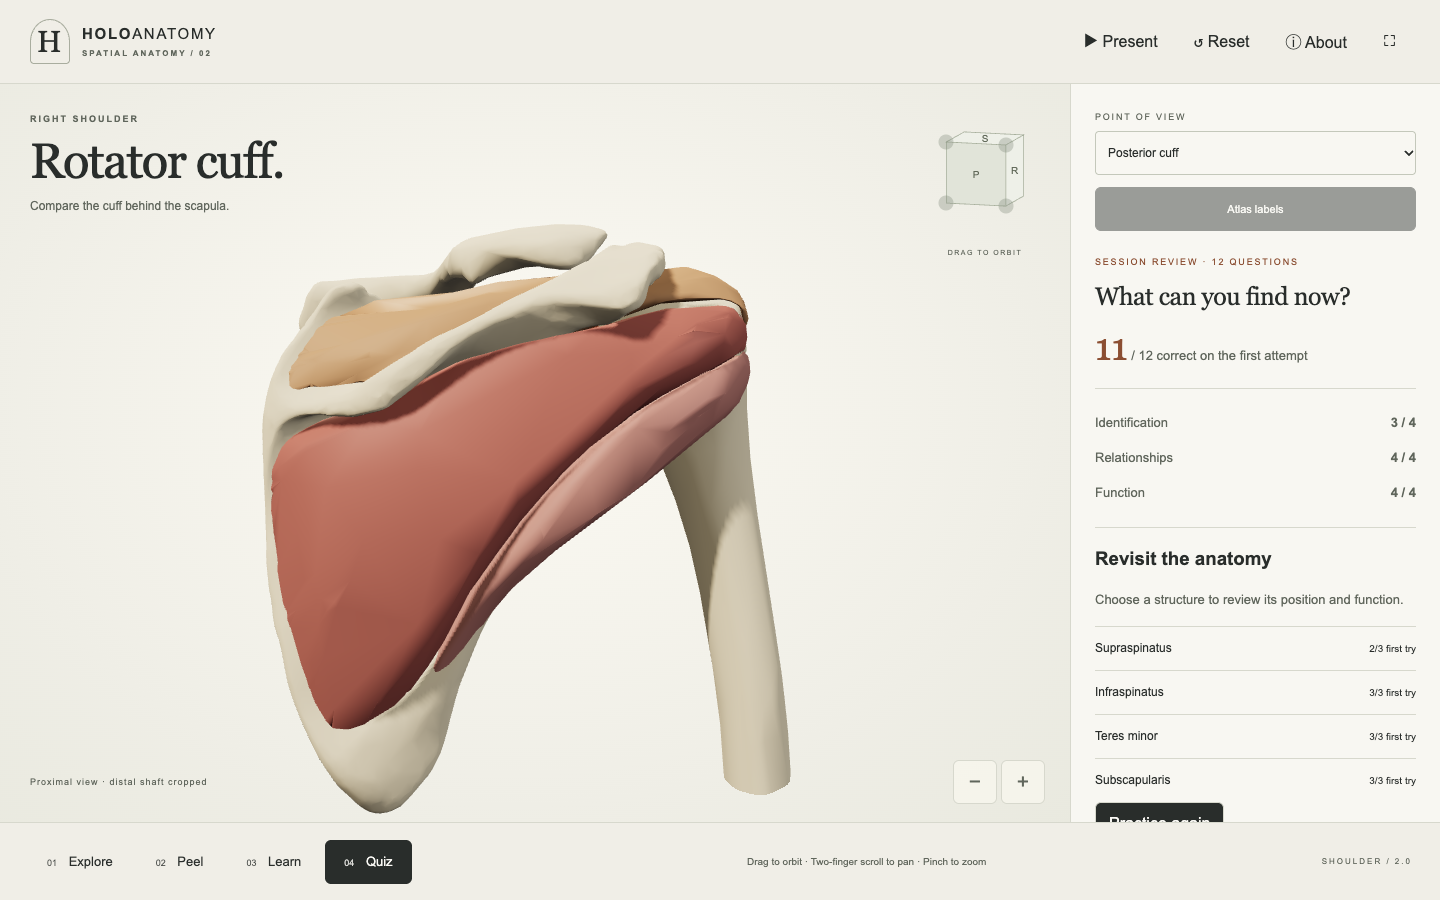
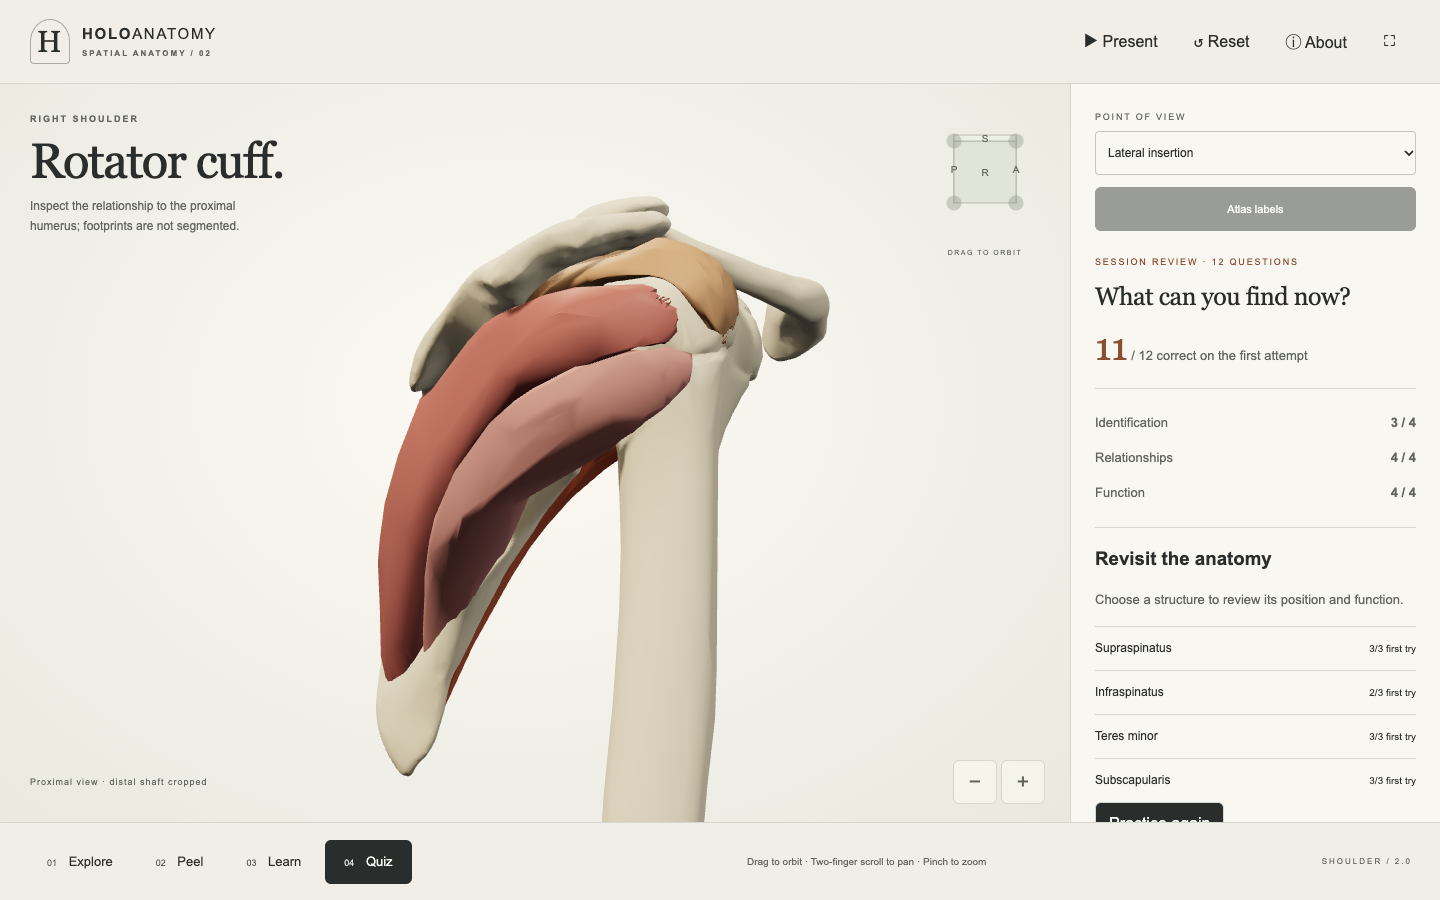
Remove predictable quiz cues and prepare educator review

diff --git a/arjan-portfolio/public/holoanatomy/shoulder/app.js b/arjan-portfolio/public/holoanatomy/shoulder/app.js
@@ -362,7 +362,7 @@ function renderPanel() {
         )}</div><h3>Revisit the anatomy</h3><p>Choose a structure to review its position and function.</p><ul class="muscle-list">${SITS.map((id) => `<li><button data-review="${id}">${name(id)}<small>${state.quiz.history.filter((r) => r.id === id && r.firstAttempt).length}/3 first try</small></button></li>`).join("")}</ul><button class="primary" data-action="quiz-restart">Practice again</button><p class="integrity">A practice-session result, not a validated measure of clinical competence. Results stay in this tab and reset when you reload.</p>`;
     } else {
       const q = question(state);
-      html = `<p class="kicker">ACTIVE RECALL · ${q.level} · ${state.quiz.index + 1} / ${QUIZ_LENGTH}</p><h2>${q.prompt}</h2><p>Select the structure on the specimen. Orbit to inspect it from another angle.</p><div class="steps"><span style="width:${(state.quiz.index / QUIZ_LENGTH) * 100}%"></span></div><p><span class="quiz-score">${state.quiz.score}</span> <small>first-attempt points</small></p><button class="primary" data-action="quiz-next" ${!state.quiz.answered ? "disabled" : ""}>${state.quiz.index === QUIZ_LENGTH - 1 ? "Review session →" : "Next question →"}</button><details><summary>Keyboard answer controls</summary><p>Choose the structure you would select in the model.</p>${SITS.map((id) => `<button data-select="${id}">${name(id)}</button>`).join("")}</details><p class="integrity">Names → spatial relationships → function. Retries support practice without adding points.</p>`;
+      html = `<p class="kicker">ACTIVE RECALL · ${q.level} · ${state.quiz.index + 1} / ${QUIZ_LENGTH}</p><h2>${q.prompt}</h2><p>Select the structure on the specimen. Orbit to inspect it from another angle.</p><div class="steps"><span style="width:${(state.quiz.index / QUIZ_LENGTH) * 100}%"></span></div><p><span class="quiz-score">${state.quiz.score}</span> <small>first-attempt points</small></p><button class="primary" data-action="quiz-next" ${!state.quiz.answered ? "disabled" : ""}>${state.quiz.index === QUIZ_LENGTH - 1 ? "Review session →" : "Next question →"}</button><details><summary>Keyboard answer controls</summary><p>Choose the structure you would select in the model.</p>${SITS.map((id) => `<button data-select="${id}">${name(id)}</button>`).join("")}</details><p class="integrity">Names → spatial relationships → function. Later rounds start from the same lateral view: rotate to find the answer. Retries support practice without adding points.</p>`;
     }
   }
   $("context").innerHTML = html;

diff --git a/arjan-portfolio/public/holoanatomy/shoulder/model.js b/arjan-portfolio/public/holoanatomy/shoulder/model.js
@@ -342,6 +342,16 @@ export const SOURCES = [
   },
 ];
 export function createState() {
+  const order = [];
+  for (let round = 0; round < 3; round++) {
+    const remaining = [...SITS];
+    while (remaining.length) {
+      const candidates = remaining.filter((id) => id !== order.at(-1));
+      const id = candidates[Math.floor(Math.random() * candidates.length)];
+      order.push(id);
+      remaining.splice(remaining.indexOf(id), 1);
+    }
+  }
   return {
     mode: "explore",
     presenting: false,
@@ -355,6 +365,7 @@ export function createState() {
     undo: [],
     lesson: 0,
     quiz: {
+      order,
       index: 0,
       score: 0,
       answered: false,
@@ -415,8 +426,7 @@ export function reassemble(state) {
 }
 export function question(state) {
   if (quizComplete(state)) return null;
-  const order = ["FJ1506", "FJ1504", "FJ1500", "FJ1508"];
-  const id = order[state.quiz.index % 4],
+  const id = state.quiz.order[state.quiz.index],
     level = Math.floor(state.quiz.index / 4);
   const relation = {
     FJ1506: "Select the cuff muscle above the scapular spine.",
@@ -441,7 +451,7 @@ export function question(state) {
         : level
           ? relation[id]
           : `Identify ${CURRICULUM[id].name.toLowerCase()}.`,
-    view: id === "FJ1504" ? "anterior" : "posterior",
+    view: level === 0 ? (id === "FJ1504" ? "anterior" : "posterior") : "lateral",
     level: level >= 2 ? "Function" : level ? "Relationships" : "Identification",
   };
 }

diff --git a/arjan-portfolio/Documentation/SHOULDER-EDUCATOR-REVIEW.md b/arjan-portfolio/Documentation/SHOULDER-EDUCATOR-REVIEW.md
@@ -1,0 +1,58 @@
+# Shoulder educator review
+
+Status: review protocol only. No educator approval, participant data or learning-effectiveness result has been obtained. Review the exact candidate commit, browser and device; do not generalize from automated tests.
+
+## What is being evaluated
+
+HoloAnatomy is an interactive right-shoulder spatial-learning prototype. Its intended task is to help a learner locate the four cuff muscles around the glenohumeral joint and relate their positions to curriculum descriptions of function. It is not a joint-mechanics simulator or a clinical decision tool.
+
+The assembly contains BodyParts3D surfaces, not a complete shoulder. Tendons, insertion footprints and fiber orientation are not separately represented. The displayed surface quality limits fine landmark interpretation. Blender processing changed shading normals, not anatomical topology or vertex positions.
+
+## Educator walkthrough: approximately 20 minutes
+
+1. Open Explore. Inspect posterior, anterior, superior and lateral views. Check right-side orientation, structure identities and the relationships implied by the assembly. Flag any misleading surface or overlap, including limitations inherited from the source.
+2. Select each cuff muscle. Check origin, insertion, action, innervation, spatial relationship and clinical text against the linked curriculum sources. Separate text accuracy from what the actual geometry demonstrates. Record exact wording requiring correction.
+3. Use Peel. Assess whether offsets are clearly understood as an illustrative dissection, and whether reassembly restores the anatomical relationships. Check that the interface does not imply that missing tendons or footprints are shown.
+4. Run Present and the four function studies. Check that learners can distinguish anatomical position from simulated movement, activation or force. Ask them to describe what the highlight means.
+5. Complete Quiz. Inspect question ambiguity, whether labels or camera choices reveal the target, and whether retries and scores are explained honestly. Later rounds start from a shared lateral view; learners must navigate as needed.
+6. Repeat the key tasks on a phone. Record device, browser, orientation, clipping, touch-selection problems and any task requiring help.
+
+## Record each finding
+
+| Field | Record |
+| --- | --- |
+| Candidate | Commit, date, browser, device |
+| Reviewer | Role and relevant anatomy/teaching expertise; name only with permission |
+| Location | Mode, view, structure ID, exact statement or action |
+| Observation | What happened, with screenshot if useful |
+| Severity | Misleading anatomy; blocked learning task; usability friction; cosmetic |
+| Evidence | Source citation or anatomical explanation |
+| Correction | Required change and how the reviewer will verify it |
+| Disposition | Open, corrected awaiting recheck, or reviewer verified |
+
+A proposed release gate is no unresolved misleading-anatomy finding and no blocked core learning task. This is a project acceptance criterion, not accreditation. A review counts as complete only when a real reviewer has performed it and agreed to the recorded scope; do not prefill a sign-off.
+
+## Small formative learner pilot
+
+Use this to find failures, not to claim educational efficacy. Recruit willing learners through the project owner; no invitations have been sent. Record prior anatomy experience without collecting unnecessary personal information. Obtain permission before recordings. If the work is intended as institutional research or publication, have the supervising institution determine its review requirements before recruitment.
+
+- Before the lesson, ask the learner to locate the four muscles and explain one anterior/posterior relationship. Use an educator-approved alternate representation or unfamiliar viewpoint, not the lesson's labeled opening frame.
+- Let the learner complete the spatial tour without coaching. Observe where they get lost, select the wrong structure, or confuse the source geometry with curriculum text.
+- Afterward, use equivalent but different prompts and viewpoints approved by the educator. Counterbalance the two prompt sets across learners to reduce question-order effects. Include a task requiring rotation from the opposite side.
+- Record first-attempt correctness, required assistance, navigation failures and completion time. Record wrong answers and incomplete tasks, not only successful demonstrations. The app's practice score is not a substitute for this observation.
+- Ask: “What can this model show accurately?”, “What is missing?”, and “What did the highlighting mean?” Misunderstanding the model's limits is a product defect to investigate.
+- Report the sample size, prior experience, exact tasks, all outcomes and limitations. A small uncontrolled pre/post exercise cannot establish causal benefit or superiority over an atlas. Treat it as formative feedback.
+
+## Conference demonstration: three minutes
+
+- 0:00–0:30: state the learning objective and identify the right shoulder. Explain source scope briefly.
+- 0:30–1:15: use posterior and anterior views to show how the cuff surrounds the joint. Invite the audience to predict where the anterior muscle will appear before rotating.
+- 1:15–2:00: compare the posterior pair in the external-rotation study, then inspect the internal-rotation study. Explain that these are curriculum-guided highlights on static anatomy.
+- 2:00–2:40: ask a live spatial question and let the learner manipulate the specimen. Show first-attempt scoring and retry feedback.
+- 2:40–3:00: show provenance, disclose missing anatomy, and describe what has actually been tested. Mention educator feedback or learner results only after obtaining them.
+
+## Claims the present evidence supports
+
+The project includes interactive source anatomy, a guided lesson, function-group studies, reversible dissection, provenance and local practice questions. Automated checks exercise engineering behavior. Derived normals preserve exported triangle positions.
+
+The present evidence does not establish anatomical expert approval, improved learning, clinical validity, physical-iPhone performance, adoption by a medical school, or an admissions advantage. Keep a factual contribution log distinguishing project direction, source assets, AI-assisted implementation and personal validation work; be prepared to explain each technical and educational decision.

diff --git a/arjan-portfolio/Documentation/HOLOANATOMY-CONFERENCE-UPGRADE.md b/arjan-portfolio/Documentation/HOLOANATOMY-CONFERENCE-UPGRADE.md
@@ -33,7 +33,7 @@ The source surfaces still have the previously audited 878 / 866 / 506 / 2,092 tr
 - [Existing browser regression](shoulder-conference-qa/regression/browser-results.json)
 - [Production portfolio smoke](shoulder-conference-qa/portfolio-smoke.json)
 
-Validation: 95 portfolio tests, 17 shoulder tests, typecheck, production build and changed-JavaScript lint passed. Chrome verifies presentation entry/exit, keyboard chapter control, grouped visibility, twelve-question completion, retry scoring, review links, reset and narrow layout. Axe reports zero violations in the tested desktop and mobile function-study states. The prior shoulder suite passes camera/picking/touch/Peel/lesson/quiz/OBJ/LOD checks. Fourteen production routes, embedded studio, legacy viewer and sitemap pass smoke checks.
+Validation: 95 portfolio tests, 18 shoulder tests, typecheck, production build and changed-JavaScript lint passed. Chrome verifies presentation entry/exit, keyboard chapter control, grouped visibility, twelve-question completion, retry scoring, review links, reset and narrow layout. Axe reports zero violations in the tested desktop and mobile function-study states. The prior shoulder suite passes camera/picking/touch/Peel/lesson/quiz/OBJ/LOD checks. Fourteen production routes, embedded studio, legacy viewer and sitemap pass smoke checks.
 
 These results are not a fresh physical-iPhone test, Safari certification, clinician review or educational-effectiveness study. Existing frame-time figures from September must not be presented as a new hardware measurement.
 
@@ -74,3 +74,9 @@ The AO experiment is rejected for default use: it adds four textures (approximat
 - [Geometry hashes and bake record](shoulder-conference-qa/blender/bake-report.json)
 
 Regenerate candidates with Blender `--background --factory-startup --python tools/blender/bake_shoulder_study.py`. After visual review, append `-- --publish` to copy the normals-only export to the local public assets and update provenance. Here “publish” only means local asset promotion, never deployment. LOD1/2 and OBJ fallback retain the original normals. The provenance panel distinguishes derived runtime shading from source normals. `node tools/shoulder/blender-qa.mjs` compares the frozen source, AO experiment and accepted variant in Chrome.
+
+## Assessment integrity increment
+
+The original session repeated the same four targets in the same order. Each of the three rounds now shuffles all four muscles exactly once and prevents repetition across round boundaries. Identification retains helpful framing; relationship/function rounds all start laterally, so camera choice does not identify the answer. The user-facing instructions explain that rotation is required. Keyboard answer controls remain available.
+
+The domain suite checks coverage, boundaries and shared later-round framing over 100 sessions. Browser tests read the generated deck instead of assuming a hardcoded answer sequence. These checks validate mechanics, not learning efficacy. See [educator review protocol](SHOULDER-EDUCATOR-REVIEW.md) for the outstanding independent review, formative pilot and a concise conference demonstration.
